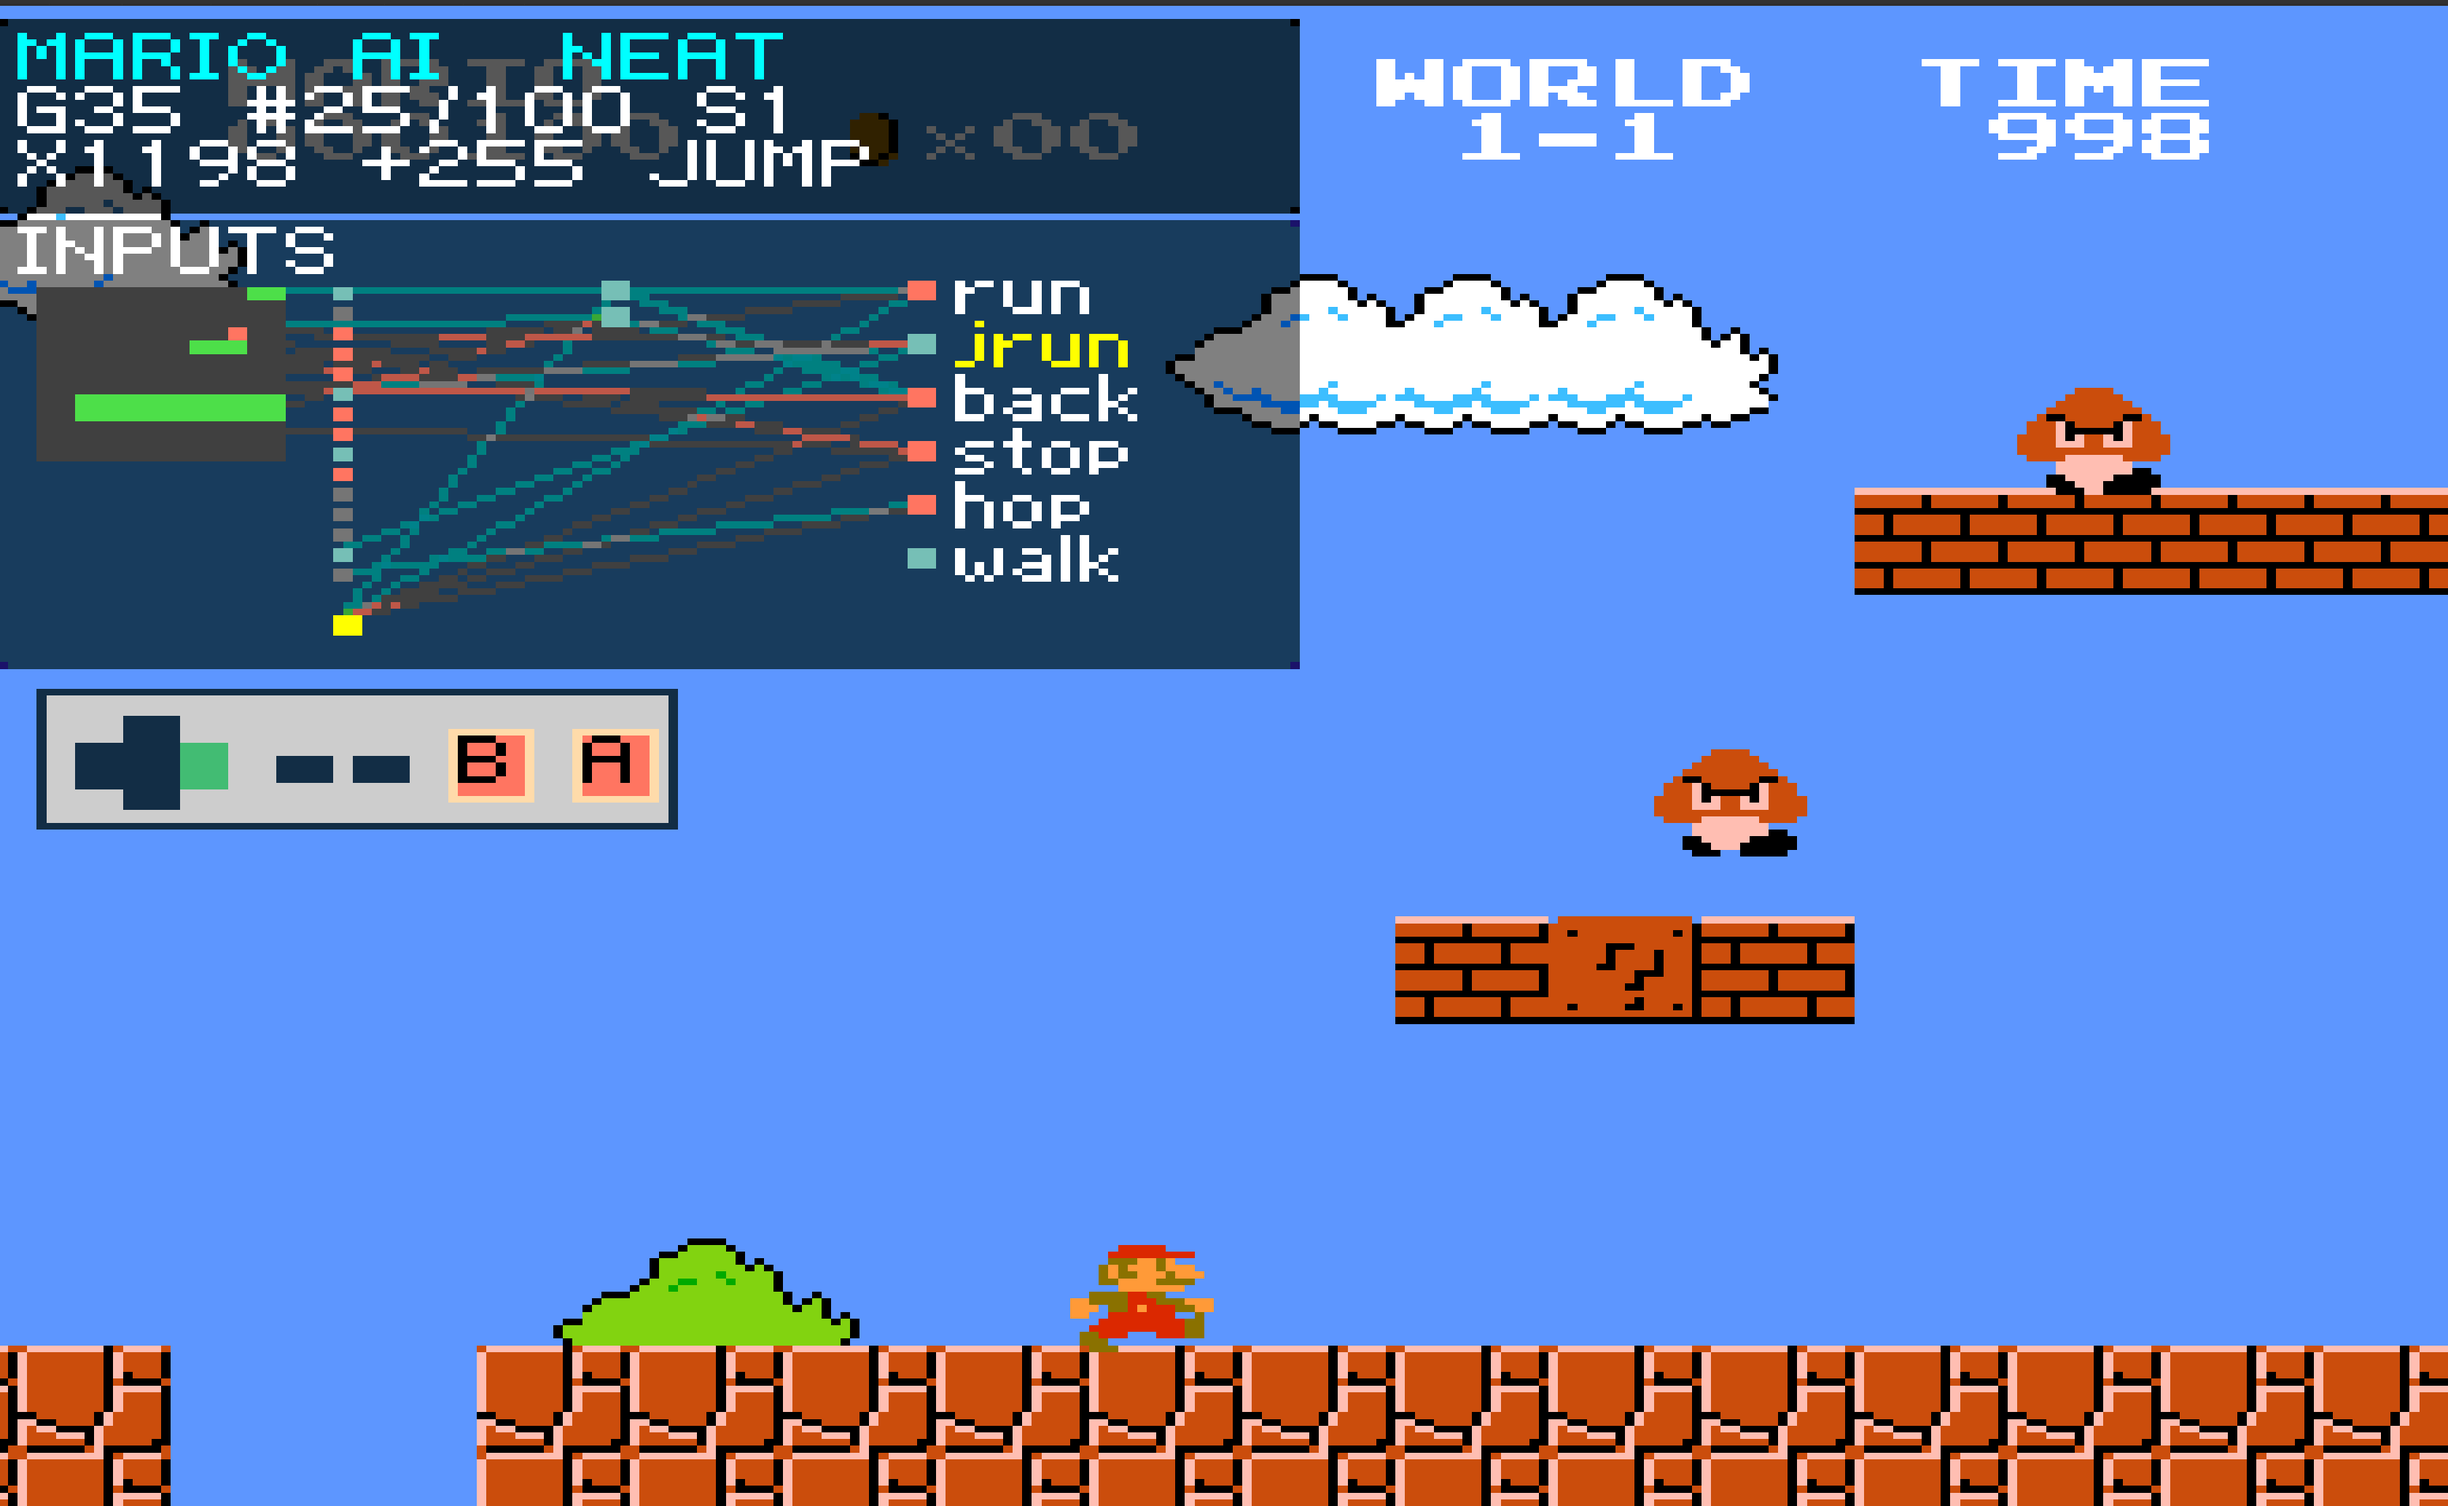
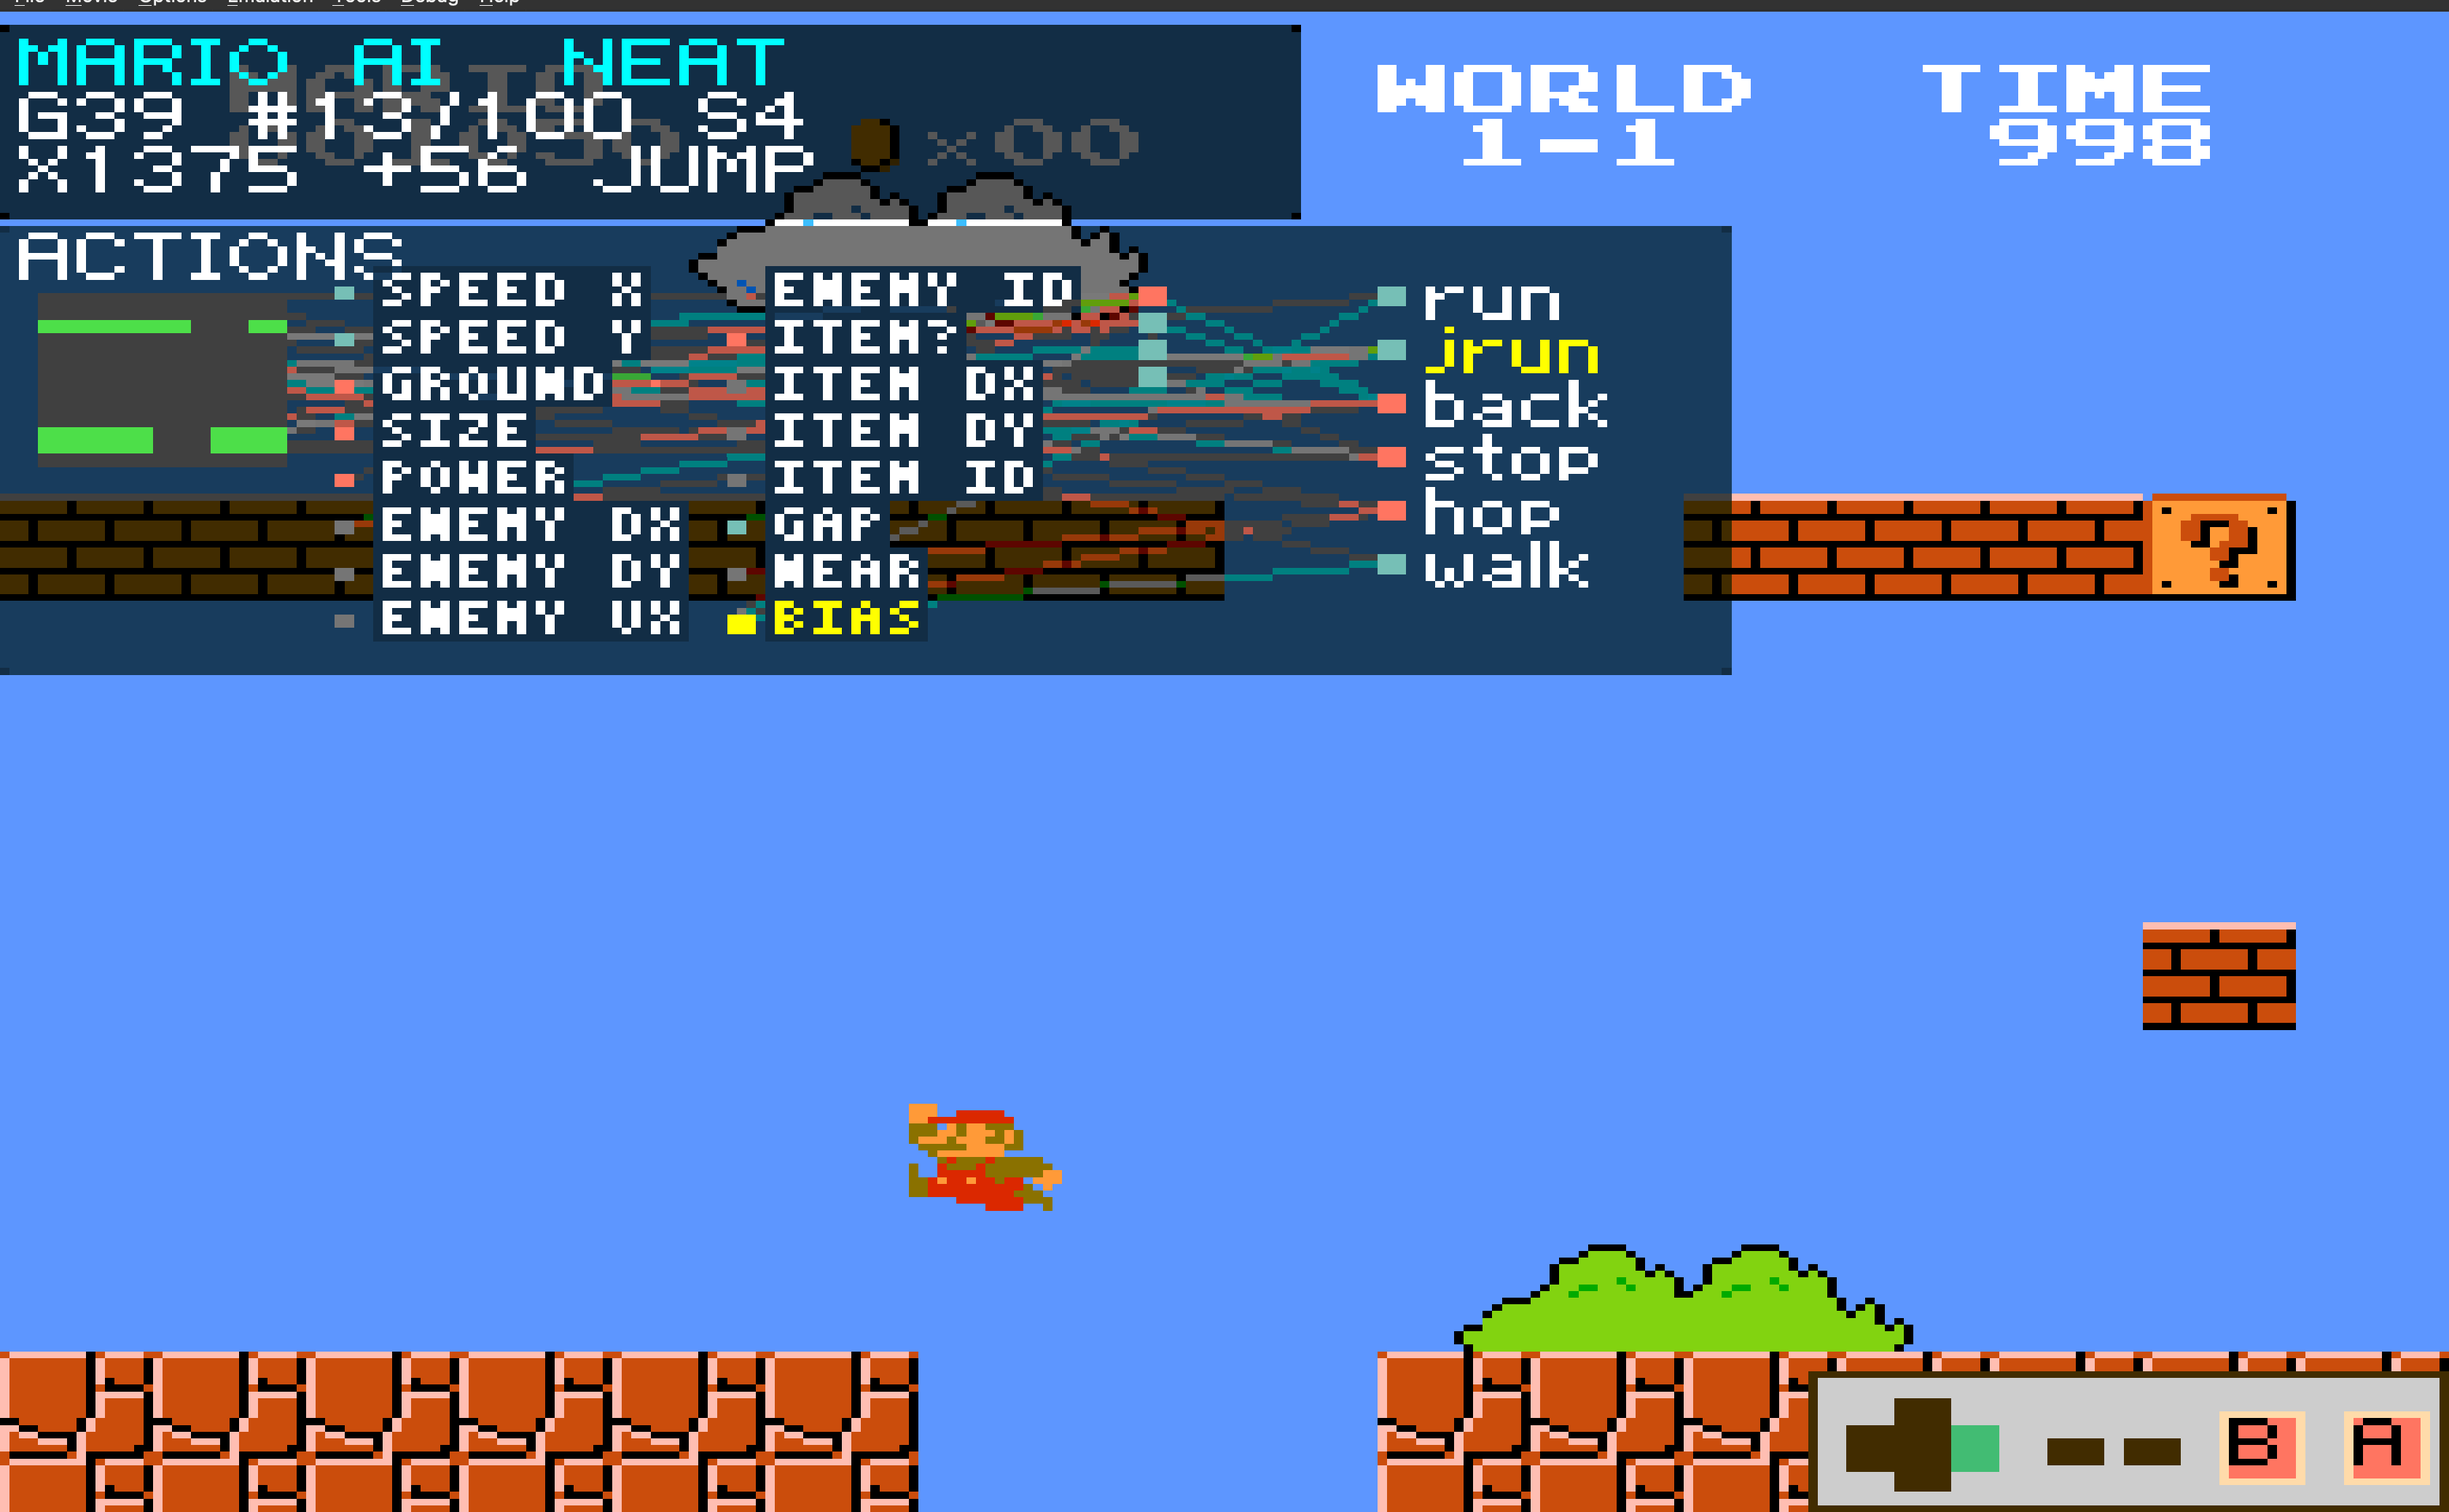
ui: refine FCEUX overlay and README demo

diff --git a/README.md b/README.md
@@ -8,7 +8,11 @@ An AI that learns to play **Super Mario Bros. 1 for NES in FCEUX**. It uses NEAT
 
 ![Mario AI NEAT playing Super Mario Bros. 1 in FCEUX, with a live neural network and mini NES controller](docs/images/mario-ai-neat-training.png)
 
-*A World 1-1 training run in FCEUX. The compact overlay shows the active genome, nearby input grid, network connections, selected action, and mini NES controller while Mario remains visible.*
+*A World 1-1 training run in FCEUX. The overlay shows the current genome, live neural network, selected action, and mini NES controller while Mario remains visible.*
+
+![Ten seconds of Mario AI NEAT training live in FCEUX](docs/images/mario-ai-neat-live.gif)
+
+*Ten seconds captured from a live FCEUX training session.*
 
 Click the video thumbnail to watch SethBling's MarI/O video. MarI/O plays Super Mario World; this project targets SMB1 in FCEUX.
 
@@ -67,7 +71,7 @@ Set `PLAY_CHAMPION_ONLY = true` near the top of `mario_ai_neat.lua`, then load t
 
 ## What you'll see and what to expect
 
-Mario AI evolves candidate controllers; it does not understand the game like a person or learn language. Early attempts may die or make little progress. Fitness favors reaching farther, surviving, keeping power-ups, and completing the level. The overlay shows the active genome, input grid, network connections, selected action, pressed buttons, and progress. Click the upper-right corner of the FCEUX screen to hide the overlay, then click **[AI]** there to show it again.
+Mario AI evolves candidate controllers; it does not understand the game like a person or learn language. Early attempts may die or make little progress. Fitness favors reaching farther, surviving, keeping power-ups, and completing the level. The overlay shows the active genome, input grid, labeled sensors such as enemy DX and speed X, network connections, selected action, pressed buttons, and progress. Click the upper-right corner of the FCEUX screen to hide the overlay, then click **[AI]** there to show it again.
 
 Training time and results depend on the ROM, starting point, and number of attempts. A higher generation number means more rounds of evaluation and evolution; it does not guarantee that the AI can finish the level.
 
